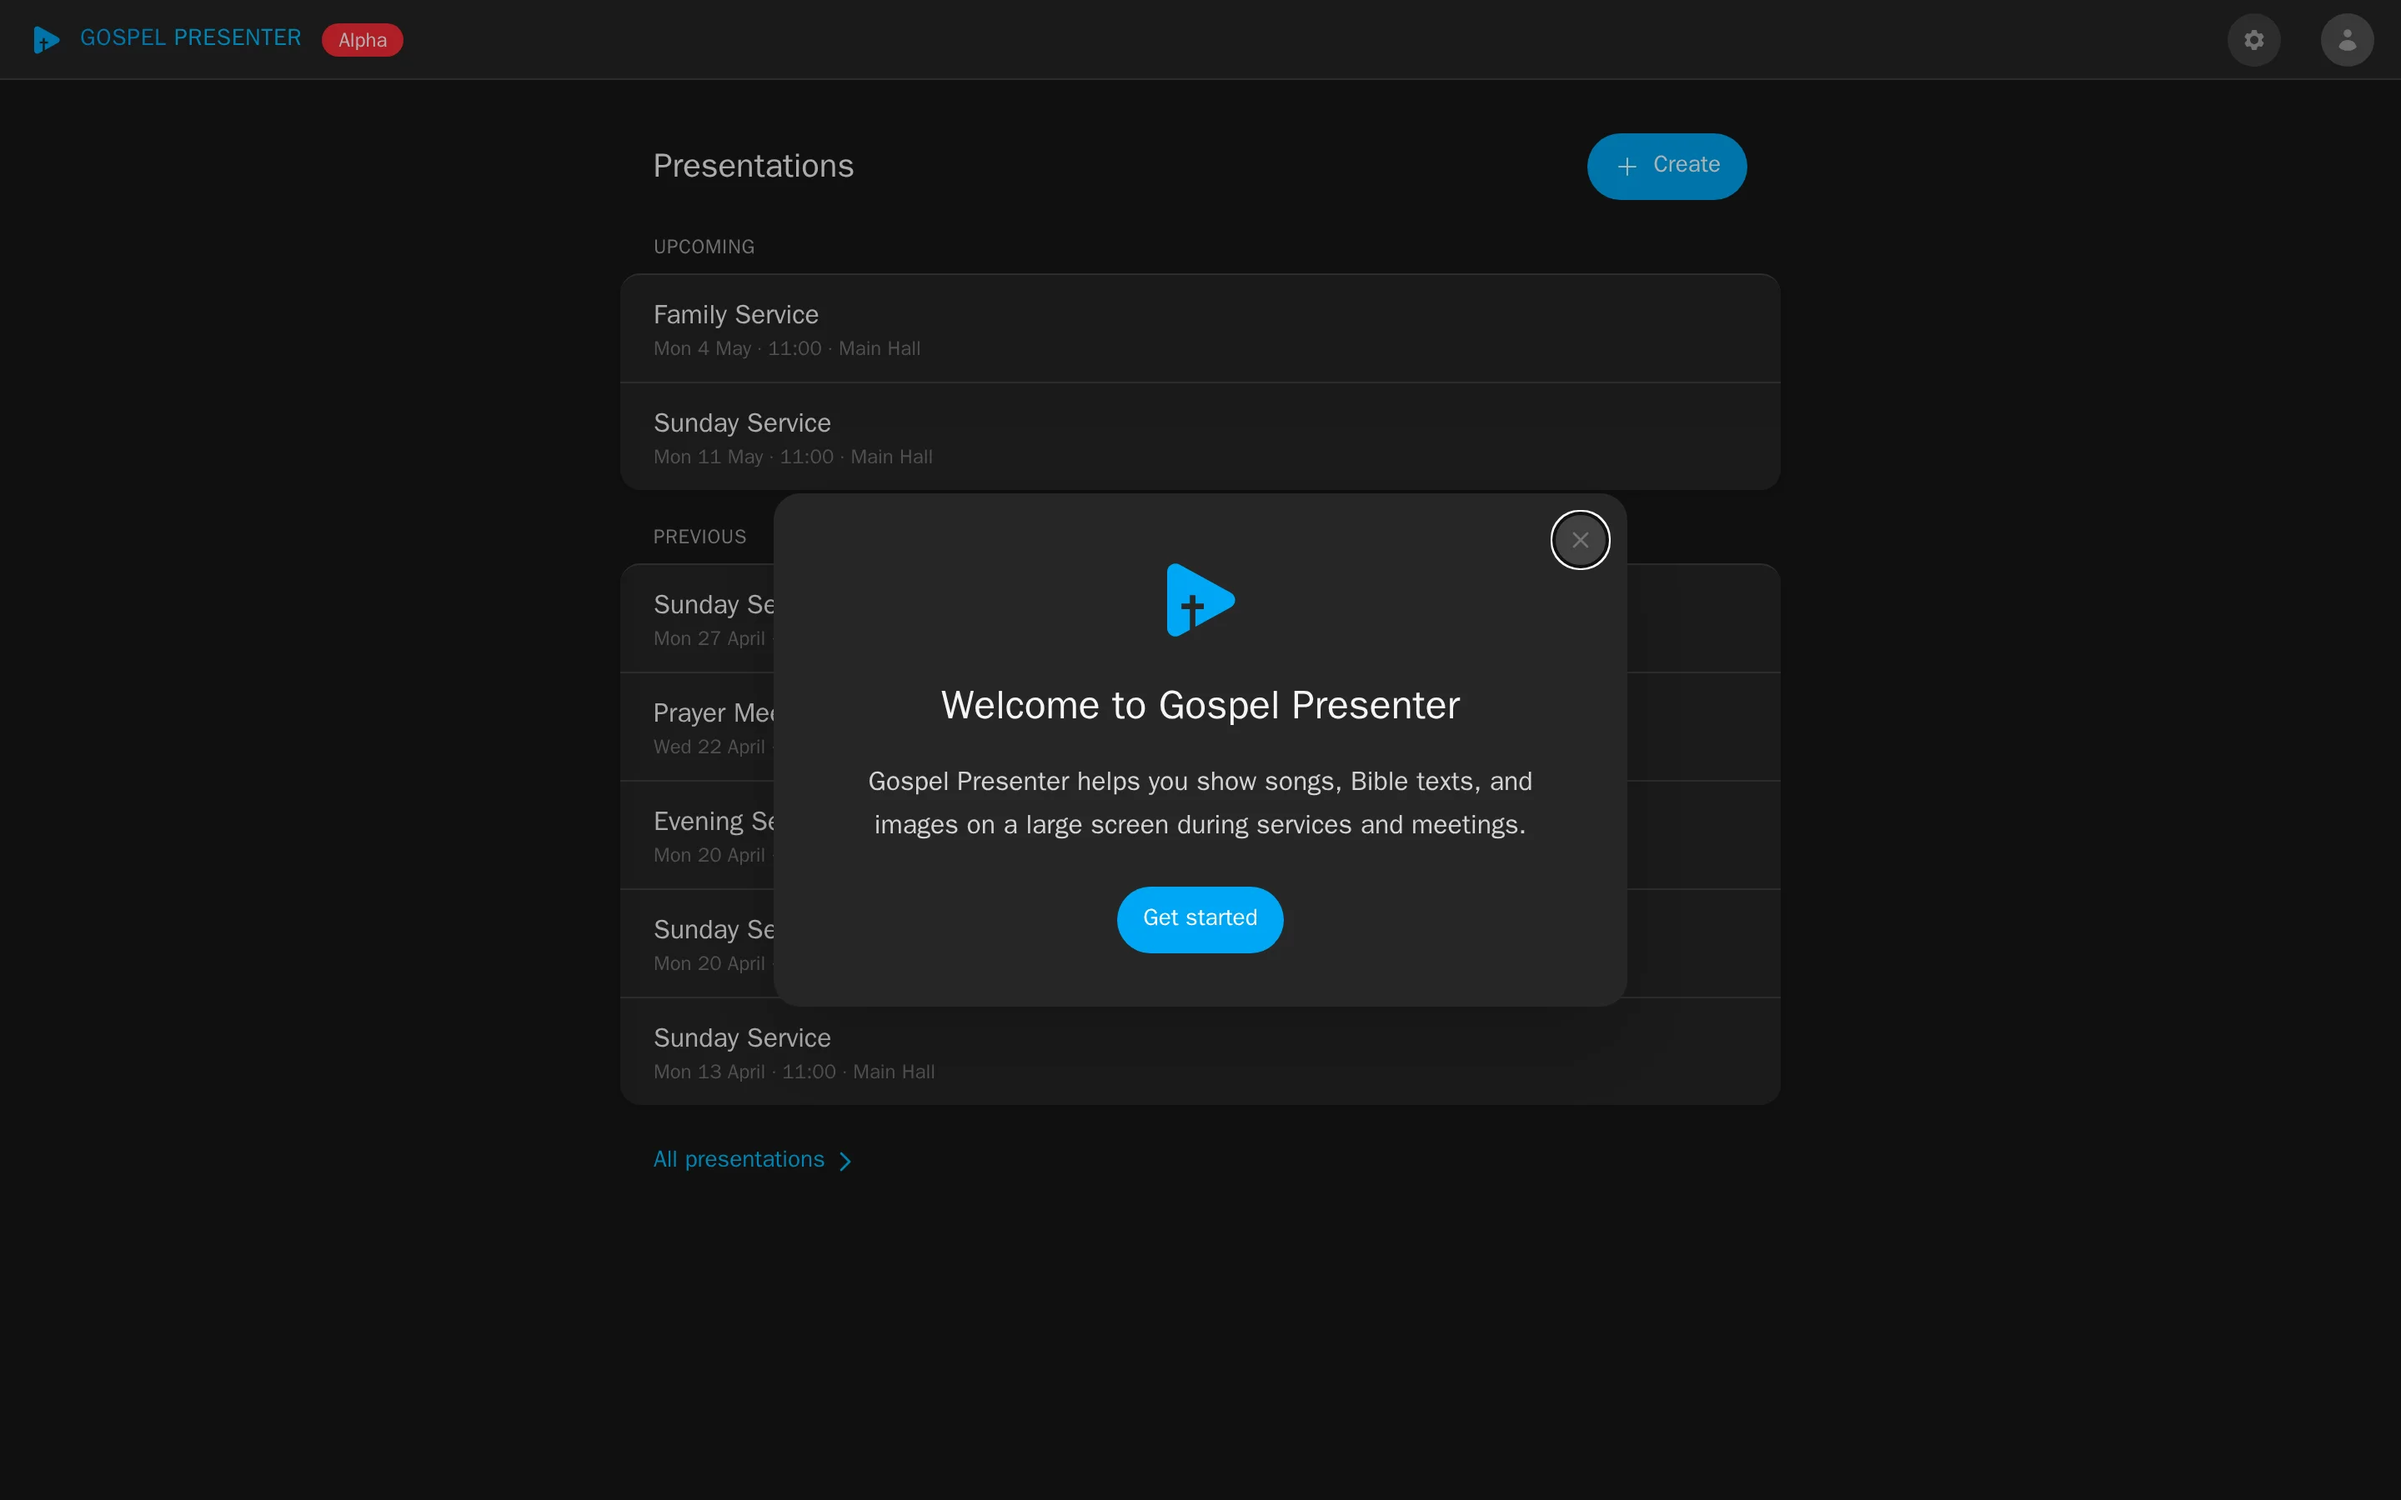
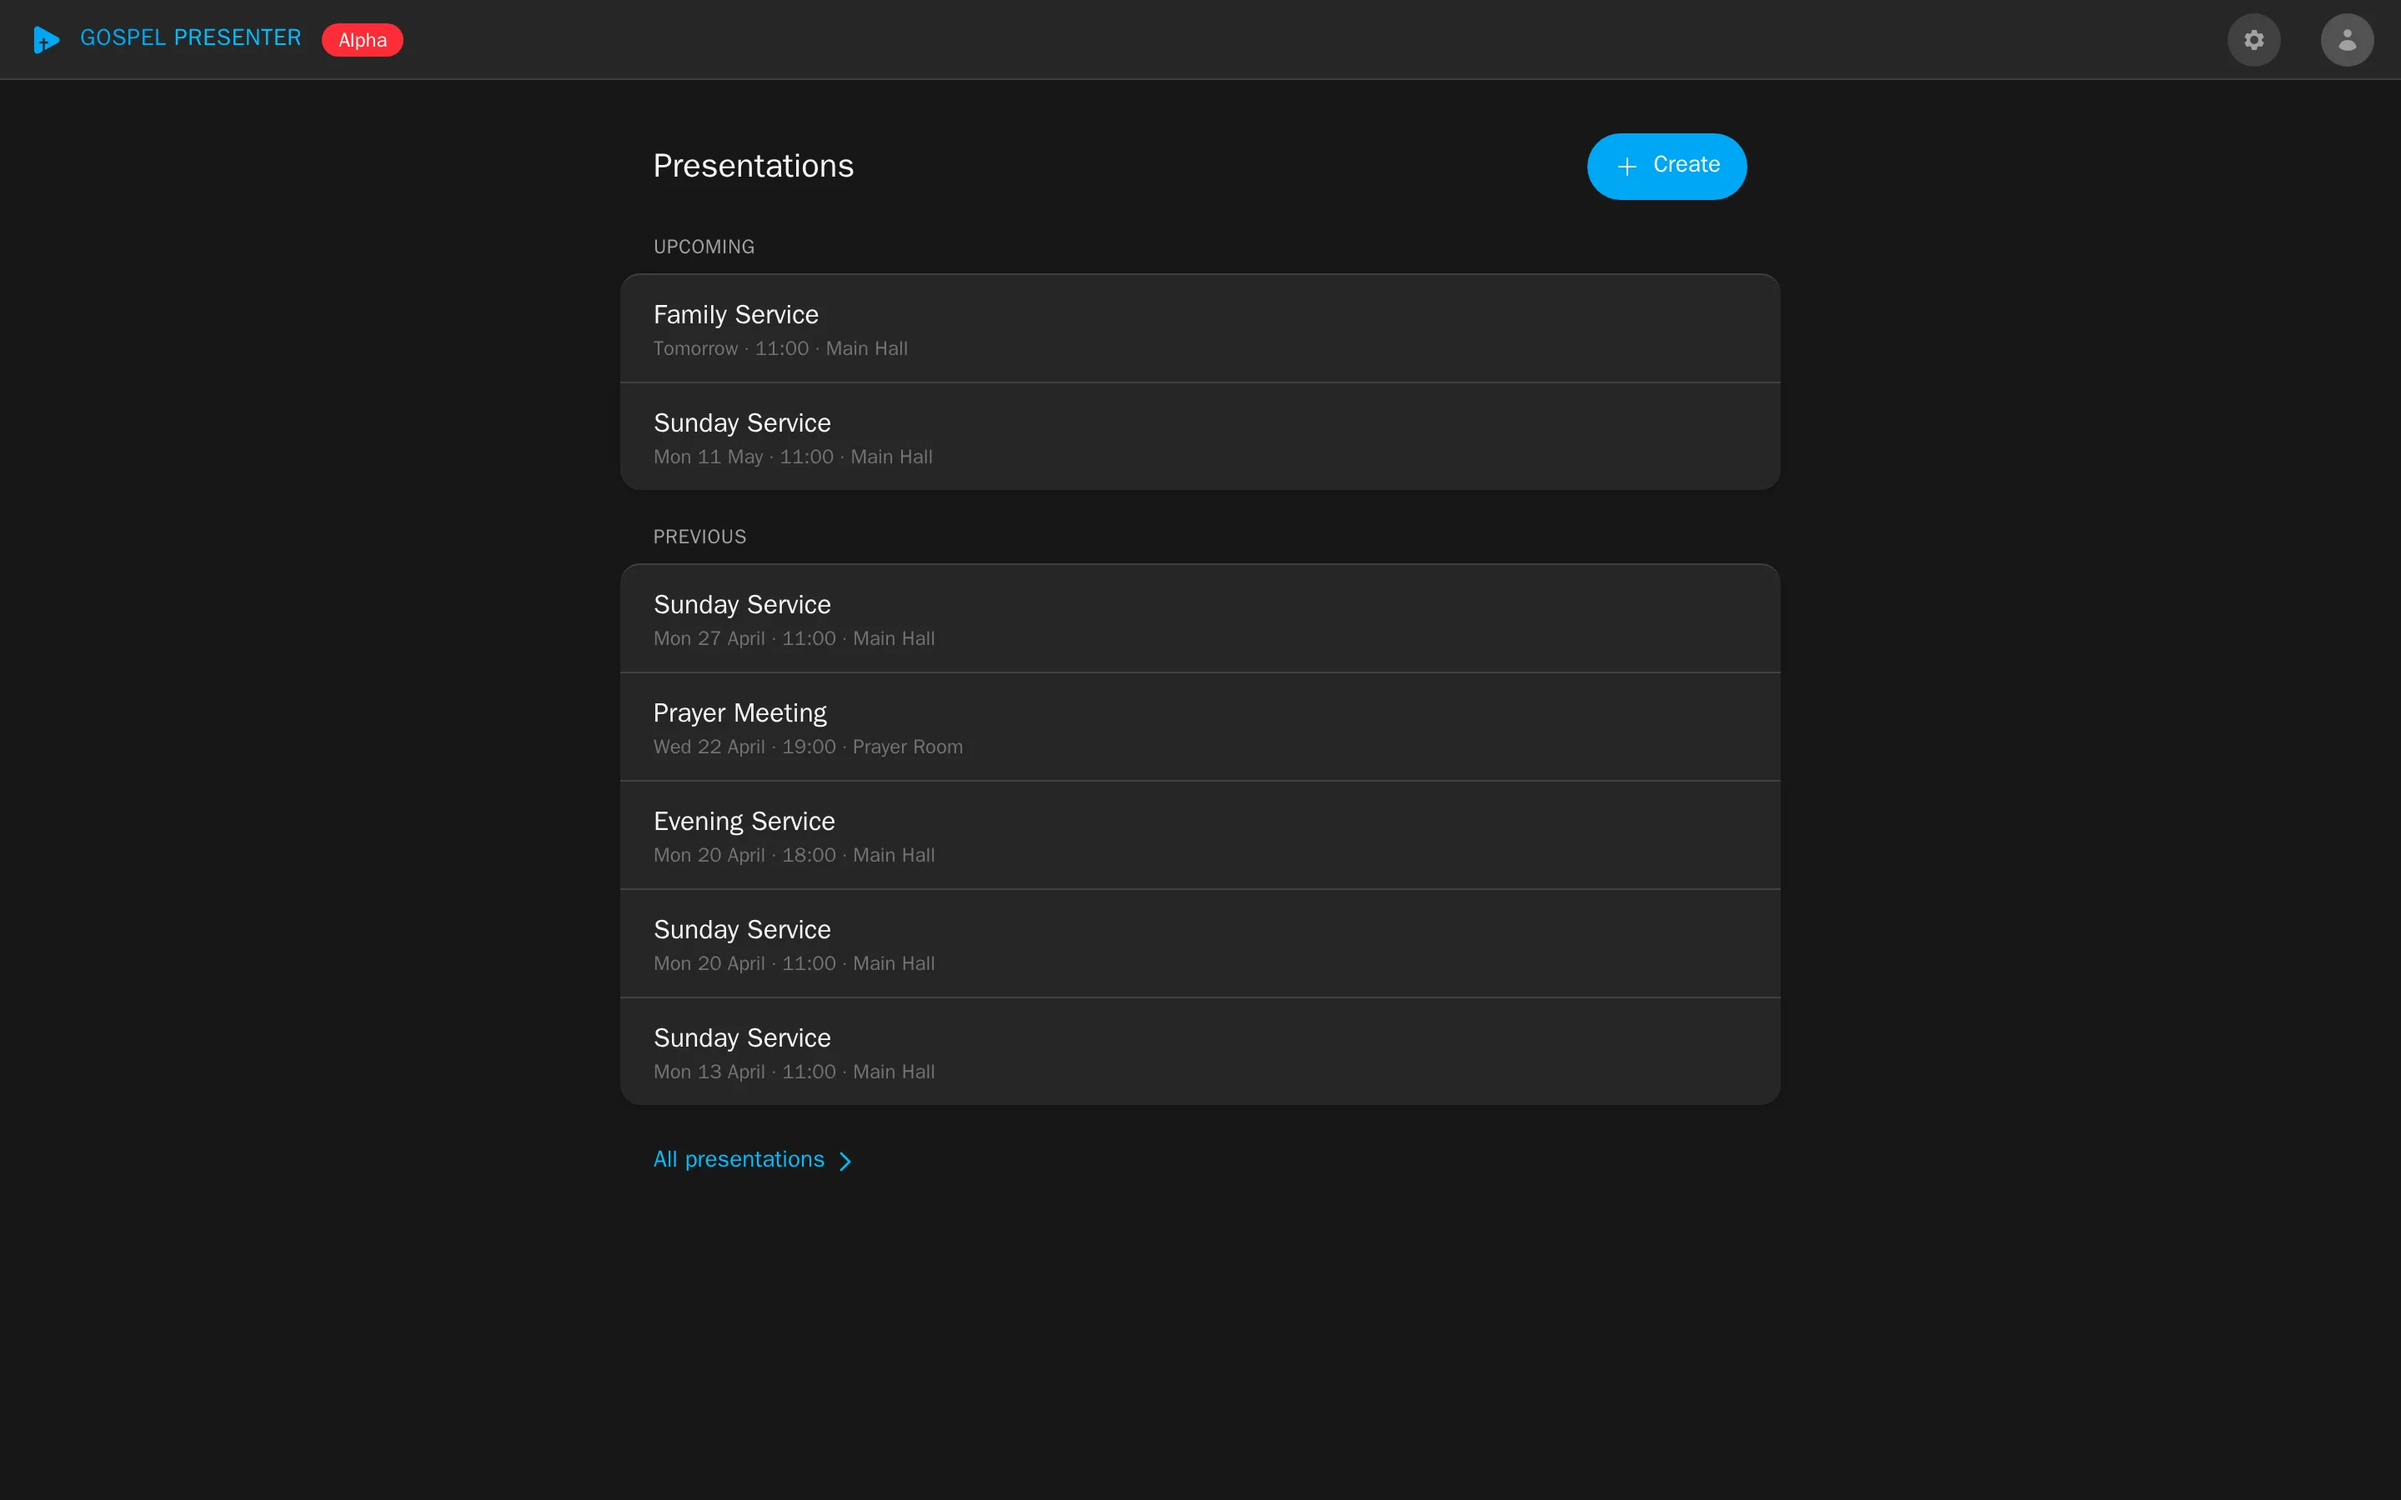
Suppress welcome modal for mock users
Seed Onboarding.WelcomeShownAt for both mock-user-sv and mock-user-en
so the welcome modal does not appear on the dashboard during screenshot
generation or local mock-mode dev sessions. Real new users still see it.

diff --git a/GospelPresenter/GospelPresenter.Web/Services/MockDataSeeder.cs b/GospelPresenter/GospelPresenter.Web/Services/MockDataSeeder.cs
@@ -1,5 +1,7 @@
+using System.Globalization;
 using GospelPresenter.Shared.Contexts;
 using GospelPresenter.Shared.Models;
+using GospelPresenter.Shared.Services;
 using Microsoft.EntityFrameworkCore;
 
 namespace GospelPresenter.Web.Services;
@@ -19,6 +21,17 @@ public static class MockDataSeeder
         await db.SaveChangesAsync();
     }
 
+    // Mark the welcome modal as already seen so screenshots and dev sessions don't open with it.
+    static void SuppressWelcomeModal(PresentationContext db, string userId, DateTimeOffset now)
+    {
+        db.UserSettings.Add(new UserSetting
+        {
+            UserId = userId,
+            Key = OnboardingService.WelcomeShownAtKey,
+            Value = now.ToString("O", CultureInfo.InvariantCulture)
+        });
+    }
+
     static void SeedSwedish(PresentationContext db, DateTimeOffset now)
     {
         var org = new Organization { Id = "mock-org-sv", Name = "Foo Bar Kyrka" };
@@ -34,6 +47,8 @@ public static class MockDataSeeder
             Logins = [new UserLogin { Provider = "mock", ProviderSubjectId = "mock-sv" }]
         };
         db.Users.Add(user);
+
+        SuppressWelcomeModal(db, user.Id, now);
 
         // Song part labels
         var vers = new DbSongPartLabel { Id = "sv-label-vers", Text = "Vers", Color = "#3b82f6", SortOrder = 0, OrganizationId = org.Id };
@@ -502,6 +517,8 @@ public static class MockDataSeeder
             Logins = [new UserLogin { Provider = "mock", ProviderSubjectId = "mock-en" }]
         };
         db.Users.Add(user);
+
+        SuppressWelcomeModal(db, user.Id, now);
 
         // Song part labels
         var verse = new DbSongPartLabel { Id = "en-label-verse", Text = "Verse", Color = "#3b82f6", SortOrder = 0, OrganizationId = org.Id };
